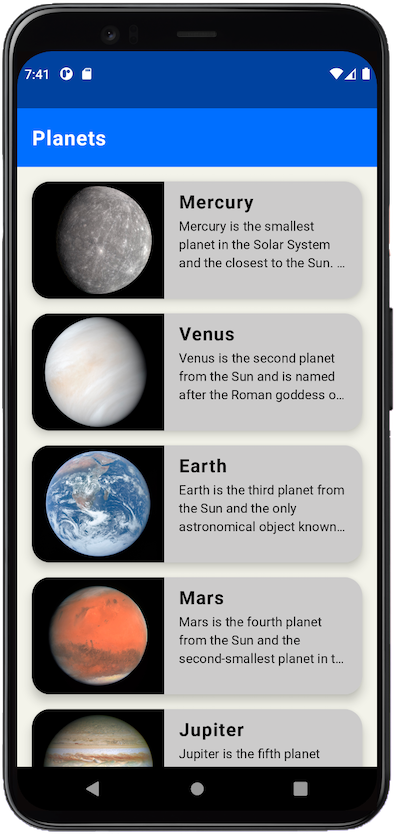
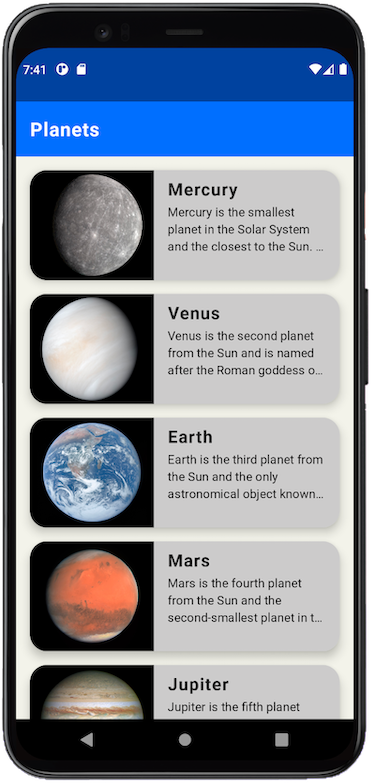
README resized screenshots in image editor take 2 & added demo gif

diff --git a/README.md b/README.md
@@ -68,8 +68,9 @@ Kotlin Flows
   * [Flows](https://developer.android.com/kotlin/flow) - A flow is conceptually a stream of data that can be computed asynchronously. The emitted values must be of the same type.
 
 ## Screenshots:
-![home phone | 200](/screenshots/planes_home_phone.png) 
-![detail- phone | 200](/screenshots/planets_detail_phone.png)
+![demo](/screenshots/planets_UX.gif)
+![home phone](/screenshots/planes_home_phone.png) 
+![detail- phone](/screenshots/planets_detail_phone.png)
 ![Scores](/screenshots/planets_home_tablet.png)
 
 
